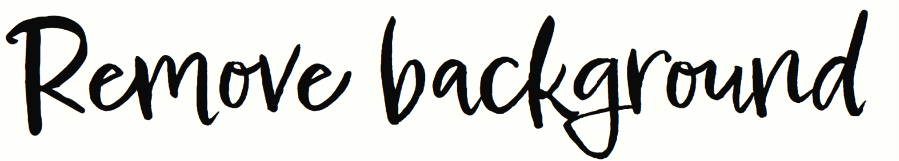
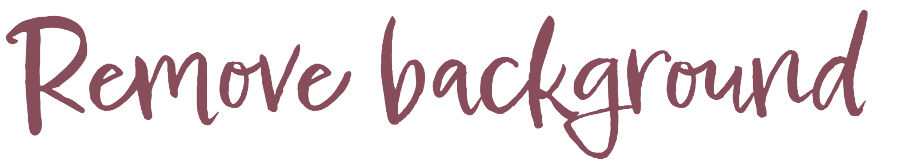
Update App.jsx styles and components

Changed region(s): [[0.0, 0.0621, 0.9655, 0.9938]]

diff --git a/src/App.jsx b/src/App.jsx
@@ -352,10 +352,10 @@ export default function App() {
         {/* ================= VIEW 1: HOME DASHBOARD ================= */}
         {currentView === 'home' && (
           <>
-            {/* Header with spark-sequince-logo.png logo and plus button vertically centered */}
+            {/* Header with spark-and-sequins-logo.png logo (60% bigger: height 6.0rem) and plus button vertically centered */}
             <div style={{ display: 'flex', alignItems: 'center', justifyContent: 'space-between', padding: '0.5rem 0.75rem', borderBottom: '1px solid #333', width: '100%', boxSizing: 'border-box' }}>
-              <div style={{ display: 'flex', alignItems: 'center', height: '5.5rem' }}>
-                <img src="/spark-sequince-logo.png" alt="Sparks & Sequins" style={{ height: '5.0rem', objectFit: 'contain' }} onError={(e)=>{e.target.style.display='none'; e.target.nextSibling.style.display='block';}} />
+              <div style={{ display: 'flex', alignItems: 'center', height: '6.5rem' }}>
+                <img src="/spark-and-sequins-logo.png" alt="Sparks & Sequins" style={{ height: '6.0rem', objectFit: 'contain' }} onError={(e)=>{e.target.style.display='none'; e.target.nextSibling.style.display='block';}} />
                 <span style={{ display: 'none', fontSize: '1.25rem', fontWeight: '800', color: '#834655', fontStyle: 'italic', fontFamily: 'Georgia, serif' }}>Sparks & Sequins</span>
               </div>
               <button
@@ -492,15 +492,15 @@ export default function App() {
                 title="Home"
                 style={{ background: 'transparent', border: 'none', cursor: 'pointer', padding: 0, display: 'flex', alignItems: 'center' }}
               >
-                <img src="/home-icon.png" alt="Home" style={{ width: '1.75rem', height: '1.75rem', objectFit: 'contain' }} onError={(e)=>{e.target.style.display='none'; e.target.parentElement.innerText='🏠'; e.target.parentElement.style.color='#fbcfe8'; e.target.parentElement.style.fontSize='1.5rem';}} />
+                <img src="/home-icon.png" alt="Home" style={{ height: '2.5rem', objectFit: 'contain' }} onError={(e)=>{e.target.style.display='none'; e.target.parentElement.innerText='🏠'; e.target.parentElement.style.color='#fbcfe8'; e.target.parentElement.style.fontSize='1.5rem';}} />
               </button>
               
               <div style={{ display: 'flex', alignItems: 'center', justifyContent: 'center' }}>
-                <img src="/ImportFrom-header.png" alt="Import from" style={{ height: '2.5rem', objectFit: 'contain' }} onError={(e)=>{e.target.style.display='none'; e.target.nextSibling.style.display='block';}} />
+                <img src="/import-from-header.png" alt="Import from" style={{ height: '2.5rem', objectFit: 'contain' }} onError={(e)=>{e.target.style.display='none'; e.target.nextSibling.style.display='block';}} />
                 <h2 style={{ display: 'none', fontSize: '1.85rem', fontWeight: '800', fontFamily: 'Georgia, serif', color: '#834655', margin: 0, fontStyle: 'italic' }}>Import from...</h2>
               </div>
 
-              <div style={{ width: '1.75rem' }}></div>
+              <div style={{ width: '2.5rem' }}></div>
             </div>
 
             <div style={{ display: 'flex', flexDirection: 'column', gap: '1rem', width: '100%', boxSizing: 'border-box' }}>
@@ -652,7 +652,7 @@ export default function App() {
               </div>
             )}
 
-            {/* Bottom Sourcing Navigation: styled Remove Background button & Next Arrow */}
+            {/* Bottom Sourcing Navigation */}
             <div style={{ display: 'flex', justifyContent: 'space-between', alignItems: 'center', paddingTop: '0.5rem', width: '100%', boxSizing: 'border-box' }}>
               <button
                 onClick={removeWhiteBackground}
@@ -774,7 +774,7 @@ export default function App() {
                 </select>
               </div>
 
-              {/* Sizing Section (Default blank) */}
+              {/* Sizing Section (Default blank and active) */}
               <div style={{ display: 'flex', flexDirection: 'column', gap: '0.375rem', width: '100%', boxSizing: 'border-box' }}>
                 <label style={{ fontSize: '0.75rem', fontWeight: '600', textTransform: 'uppercase', letterSpacing: '0.05em', color: '#d4d4d4' }}>Size *</label>
                 <div style={{ display: 'flex', gap: '0.5rem', width: '100%', boxSizing: 'border-box' }}>
@@ -837,7 +837,7 @@ export default function App() {
               </div>
             </div>
 
-            {/* Bottom Bar: Left edit toggle button removed; Right side has Bin and Update/Done buttons */}
+            {/* Bottom Bar */}
             <div style={{ display: 'flex', justifyContent: 'flex-end', alignItems: 'center', paddingTop: '0.5rem', width: '100%', boxSizing: 'border-box' }}>
               <div style={{ display: 'flex', alignItems: 'center', gap: '1rem' }}>
                 {activeItemId && (
@@ -864,7 +864,7 @@ export default function App() {
                       opacity: (selectedCategory && selectedSize && selectedColor) ? 1 : 0.4
                     }}
                   >
-                    <img src="/update-item-button.png" alt={activeItemId ? "Update Item" : "Add to Wardrobe"} style={{ height: '1.25rem', objectFit: 'contain' }} onError={(e)=>{e.target.style.display='none'; e.target.parentElement.innerText=activeItemId ? 'Update Item' : 'Add to Wardrobe'; e.target.parentElement.style.color='#fbcfe8'; e.target.parentElement.style.fontSize='0.85rem'; e.target.parentElement.style.fontWeight='600';}} />
+                    <img src="/check-mark-icon.png" alt={activeItemId ? "Update Item" : "Add to Wardrobe"} style={{ height: '1.5rem', objectFit: 'contain' }} onError={(e)=>{e.target.style.display='none'; e.target.parentElement.innerText='✓'; e.target.parentElement.style.color='#fbcfe8'; e.target.parentElement.style.fontSize='1.5rem';}} />
                   </button>
                 ) : (
                   <button
@@ -894,7 +894,7 @@ export default function App() {
             padding: '1.5rem', width: '90%', maxWidth: '320px', textAlign: 'center',
             display: 'flex', flexDirection: 'column', gap: '1rem', boxShadow: '0 20px 25px -5px rgba(0,0,0,0.5)'
           }}>
-            <div style={{ fontSize: '2rem' }}>⚠</div>
+            <div style={{ fontSize: '2rem' >> '⚠'}</div>
             <h3 style={{ fontSize: '1.125rem', fontWeight: '600', color: '#fbcfe8', margin: 0 }}>Delete Item?</h3>
             <p style={{ fontSize: '0.85rem', color: '#a3a3a3', margin: 0 }}>Warning: This action cannot be undone. Are you sure you want to permanently delete this piece from your wardrobe?</p>
             <div style={{ display: 'flex', gap: '0.75rem', paddingTop: '0.5rem' }}>
